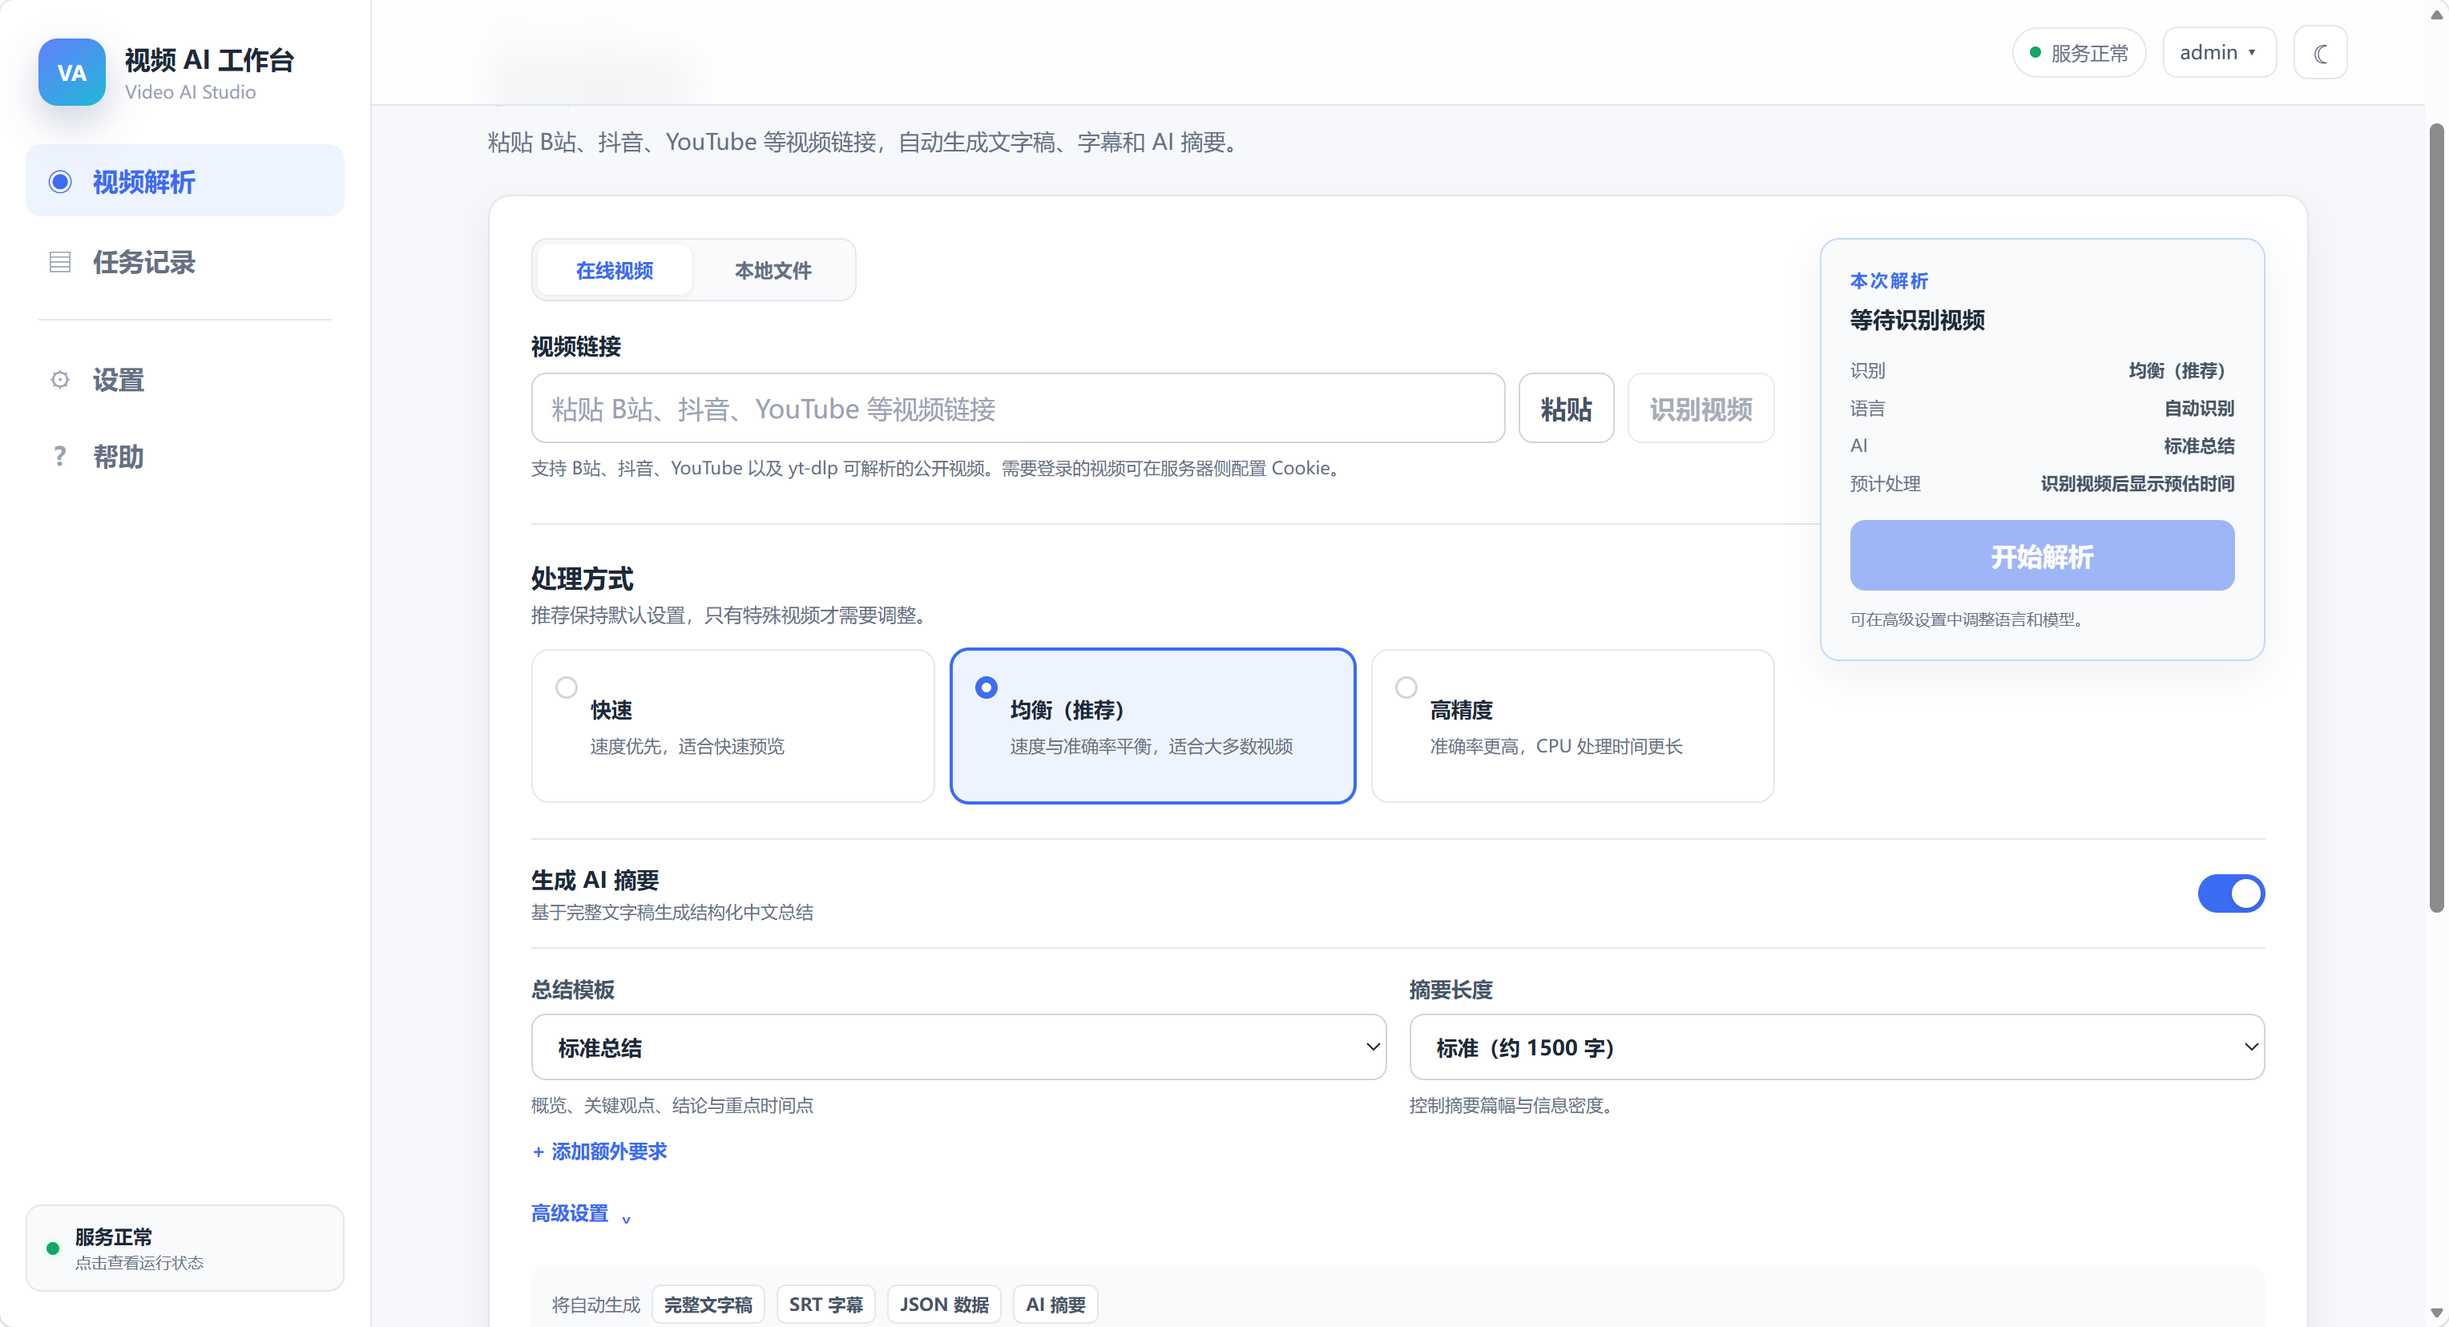
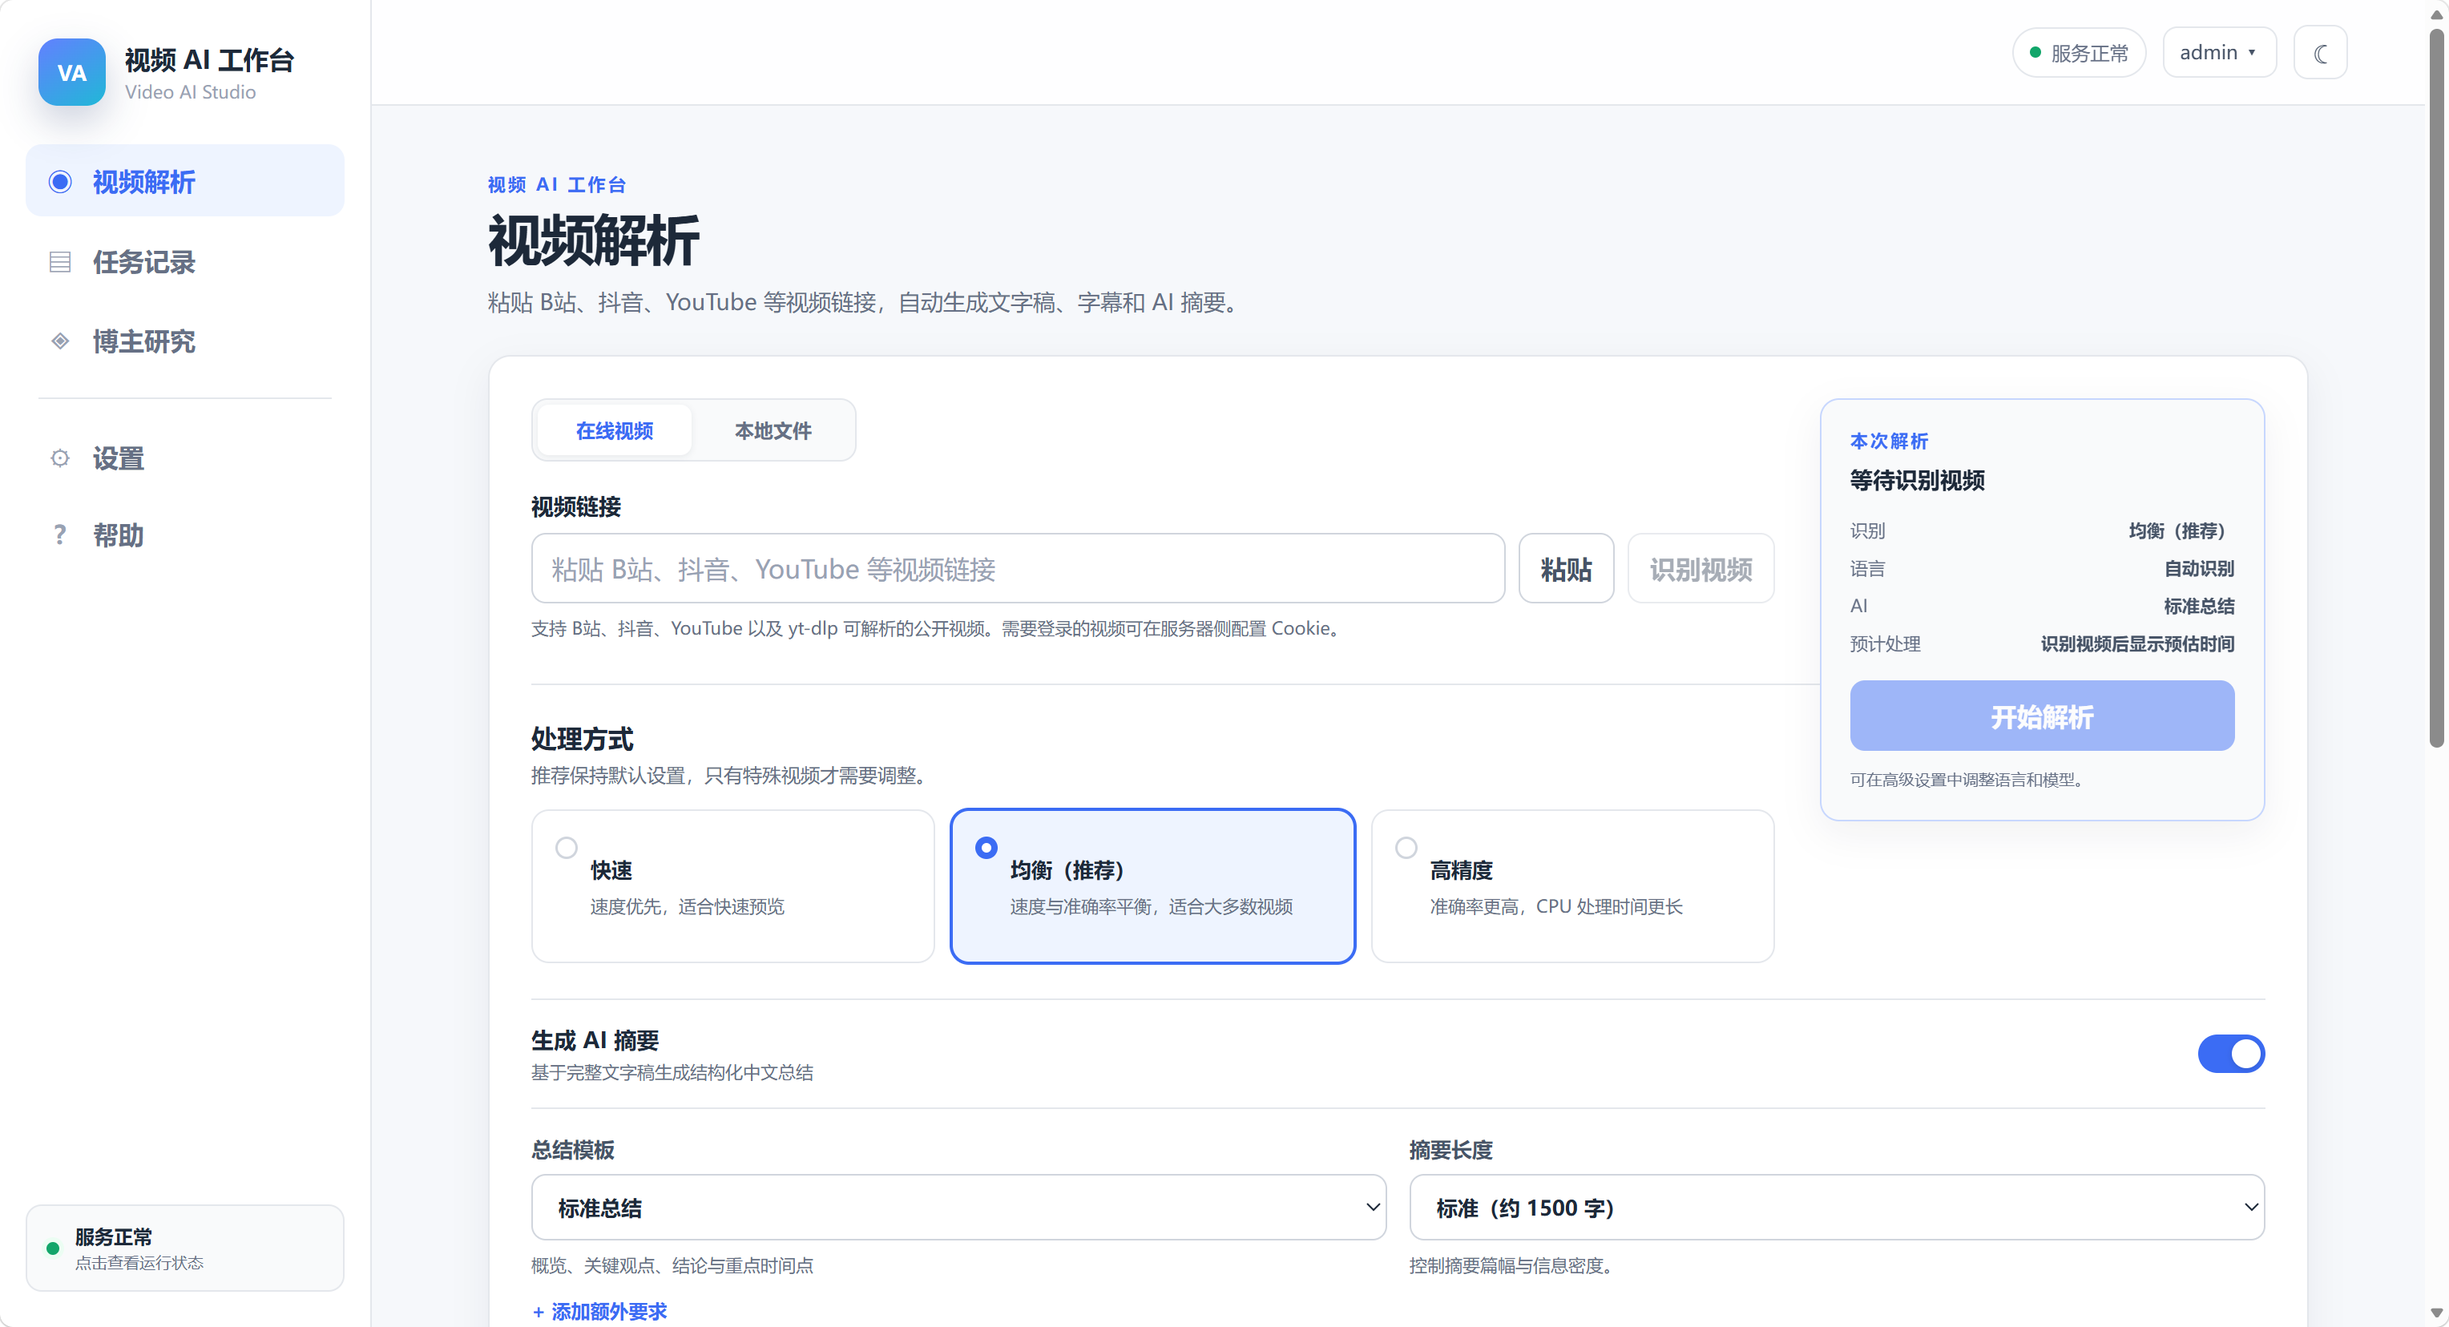
docs: refresh product overview and screenshot

diff --git a/README.md b/README.md
@@ -1,12 +1,16 @@
 # 视频 AI 工作台（Video AI Studio）
 
-一个可部署、可复用的中文视频内容解析产品。输入在线视频链接或上传本地媒体，即可获得带时间轴的文字稿、字幕和 AI 摘要。
+一个可私有部署的中文视频内容解析与创作者研究工作台。它既能把单条在线视频或本地媒体转成带时间轴的文字稿、字幕和 AI 摘要，也能批量研究抖音创作者的公开内容：从视频文本中提炼可追溯的观点、判断规则与思维框架，生成认知模型、可复用 Skill，并以历史文字稿作为检索证据回答新问题。
+
+> 仅处理你有权访问的公开内容，并遵守来源平台规则与适用法律。Creator Skill 是对公开内容的方法论归纳，不代表、也不会冒充创作者本人。
 
 <p align="center">
-  <img src="docs/images/video-ai-studio-workspace.png" alt="视频 AI 工作台的视频解析页面" width="1200">
+  <img src="docs/images/video-ai-studio-workspace.png" alt="视频 AI 工作台当前的视频解析页面" width="1200">
 </p>
 
-## 内容处理流程
+## 两类工作流
+
+### 1. 单条视频解析
 
 ```text
 在线视频 URL / 本地视频或音频
@@ -24,14 +28,44 @@
  Markdown / TXT / SRT / JSON
 ```
 
+### 2. 博主研究（Creator Intelligence）
+
+```text
+抖音主页 / 任意视频 / 分享短链
+          ↓
+持久化 Playwright 登录会话识别创作者
+          ↓
+同步公开作品，数据库去重
+          ↓
+受控批次：下载 → 转写 → Video Insight
+          ↓
+跨视频归纳：证据化 Cognitive Profile
+          ↓
+Creator Skill + pgvector 历史文本检索
+          ↓
+按该方法论分析新问题，并展示视频证据
+```
+
 ## 核心功能
 
-- 在线视频和本地视频、音频上传，支持在提交前识别视频标题、作者、封面、时长和平台。
-- 基于 faster-whisper 的本地语音识别，提供快速、均衡和高精度三档处理策略。
+### 视频解析
+
+- 在线视频与本地视频、音频上传；提交前可识别标题、作者、封面、时长和平台。
+- 基于 `faster-whisper` 的本地语音识别，提供快速、均衡、高精度三档策略。
 - 支持标准总结、详细笔记、课程笔记、会议纪要、访谈整理、知识点提取和自定义 AI 摘要。
-- 任务记录、实时进度、任务取消、全文检索和失败重试；文字稿完成后可单独重新生成摘要，无需重新下载或识别。
-- 导出 Markdown、TXT、SRT 和 JSON；即使 AI 摘要失败，已生成的文字稿和字幕仍可读取、下载。
-- 全中文界面，支持浅色和深色模式；API Key 加密保存，前端只展示掩码。
+- 任务记录、阶段进度、取消、全文检索、失败重试；文字稿完成后可单独重新生成摘要，无需重复下载和转写。
+- 导出 Markdown、TXT、SRT、JSON。ASR 文字稿会先落盘，即使 LLM 摘要失败也可继续查看、导出或重新总结。
+
+### 博主研究
+
+- 支持粘贴抖音标准主页、任意单条视频、`/user/self?modal_id=...`、`/jingxuan?modal_id=...` 与 `v.douyin.com` 分享短链；系统统一解析为创作者身份。
+- 在“设置 → 抖音连接”中扫码登录一次，登录态保存在 Docker 持久卷中的 Playwright Profile。后续可复用会话识别作者、采集主页公开作品，并将 Cookie 快照交给 `yt-dlp` 下载已发现的视频。
+- 博主研究按可选的 3 / 5 / 10 条批次执行；可设置自动继续、处理上限（10 / 50 / 全部）和失败率自动暂停阈值，避免一次性占满下载、ASR 与 LLM 资源。
+- 每条视频生成 `Video Insight`：主张、推理链、条件—行动判断规则、分析框架、表达模式及精确时间轴证据。
+- 跨视频生成证据化认知模型（Cognitive Profile），只保留反复出现且有来源支持的世界观、第一性原则、判断规则、框架、风险偏好与适用边界。
+- 自动生成可下载的 `SKILL.md` 和 `references/profile.json`；Skill 保留“如何思考”，不塞入全部视频原文。
+- 可为博主全部文字稿建立 `pgvector` 索引，再通过“Skill 与测试”界面以“Skill + 历史证据”的方式回答问题，结果会附带命中视频与时间点。
+- 主页同步受平台访问条件影响时，可在博主详情页批量导入视频链接作为兜底。
 
 ## 支持来源
 
@@ -40,20 +74,16 @@
 - B站
 - 抖音
 - YouTube
-- 以及 yt-dlp 可解析的其他公开视频来源
-
-需要登录的视频可通过服务器侧 Netscape Cookie 文件处理，Cookie 不进入源码。
+- 以及 `yt-dlp` 可解析的其他公开视频来源
 
 ### 本地文件
-
-支持常见格式：
 
 ```text
 视频：MP4 / MOV / MKV / WEBM / AVI / M4V
 音频：MP3 / WAV / M4A / AAC / FLAC / OGG / OPUS
 ```
 
-本地媒体上传到你的服务器处理。默认 `KEEP_SOURCE_MEDIA=false` 时，成功处理后会删除原始上传媒体和中间 WAV，仅保留最终结果。
+默认 `KEEP_SOURCE_MEDIA=false`。成功处理后会清理原始上传媒体和中间 WAV，仅保留最终结果；失败任务的临时工作目录也会自动清理。设置页会分别统计任务结果、临时文件、上传源文件、博主 Skill、RAG 索引、抖音登录资料和模型缓存，清理操作不会删除结果、Skill、RAG、模型或登录资料。
 
 ## 技术架构
 
@@ -62,30 +92,30 @@ React + Vite
      ↓
    Nginx
      ↓
-  FastAPI
-  ↙     ↘
-PostgreSQL Redis
-             ↓
-           Celery
-             ↓
-        Video Worker
-        ├─ yt-dlp
-        ├─ FFmpeg
-        ├─ faster-whisper
-        └─ OpenAI-compatible LLM
+  FastAPI ── PostgreSQL + pgvector
+     ↓              ↑
+Celery + Redis ─────┘
+     ↓
+Video / Creator Worker
+├─ yt-dlp              单条媒体下载
+├─ Playwright           抖音持久化会话、身份识别、主页作品采集
+├─ FFmpeg               音频标准化
+├─ faster-whisper       本地 ASR
+├─ OpenAI-compatible LLM 视频总结、Video Insight、认知模型
+└─ Embedding API        历史文字稿向量检索（当前索引为 1536 维）
 ```
 
-Linux 是主要生产部署环境；Windows 推荐使用 Docker Desktop + Linux Containers。
+`result.json` 是视频事实层的核心持久化格式，保存完整时间轴文字稿；`video_insights` 保存认知提取；`creator_analysis_runs` 保存博主认知模型；`creator_skill_versions` 保存版本化 Skill。这样可以在原始媒体清理后继续重新总结、重建检索索引或重新归纳方法论。
 
-## 部署
+## 快速开始
 
 ### 环境要求
 
-- Docker Engine 和 Docker Compose v2
-- 建议至少 4 GB 内存；CPU 使用 `small` 模型时建议更高配置
-- 足够的磁盘空间用于模型缓存、上传文件和任务结果
+- Docker Engine 与 Docker Compose v2
+- 建议至少 4 GB 内存；大量 CPU ASR 或长视频建议使用更高配置
+- 足够的磁盘空间用于模型缓存、上传媒体、任务结果与 Playwright 浏览器资料
 
-### 启动服务
+### 启动
 
 在项目根目录运行：
 
@@ -94,73 +124,66 @@ python3 scripts/init_env.py
 docker compose up -d --build
 ```
 
-`init_env.py` 会生成本地 `.env`，其中包括 `APP_SECRET_KEY`、`APP_ENCRYPTION_KEY`、`ADMIN_PASSWORD` 和 `POSTGRES_PASSWORD`，不会生成任何 LLM API Key。
-
-检查服务状态：
+首次构建后端镜像会安装 Chromium，耗时通常比普通镜像构建更长。启动后检查：
 
 ```bash
 docker compose ps
 docker compose logs -f worker
 ```
 
-浏览器访问：
+访问：
 
 ```text
-http://服务器IP:8080
+http://localhost:8080
 ```
 
-登录后前往“设置 → AI 模型”，选择服务商并填写自己的 API Key。预置 DeepSeek、智谱 GLM，也支持自定义 OpenAI-compatible 接口。
+登录后在“设置 → AI 模型”填写兼容 OpenAI API 的模型配置。可使用 DeepSeek、智谱 GLM 或其他兼容服务；要使用博主检索问答，还需填写 Embedding 模型。当前向量表固定为 1536 维，适配 `text-embedding-3-small` 一类模型；切换到其他维度前，需要调整迁移/索引并重建向量数据。
 
-Windows 可在 Docker Desktop（Linux Containers）中运行：
+Windows 可使用 Docker Desktop 的 Linux Containers：
 
 ```powershell
 py scripts\init_env.py
 docker compose up -d --build
 ```
 
-然后访问 `http://localhost:8080`。
+## 使用博主研究
+
+1. 在“设置 → 抖音连接”点击“连接抖音账号”，使用抖音 App 扫码；状态变为“已连接”后，Profile 会保存在 `/data/playwright/douyin` 对应的 `app_data` Docker 卷中。
+2. 打开“博主研究”，粘贴主页、视频或分享链接，点击“识别博主”，核对预览身份后选择“开始研究”。
+3. 为首次研究选择批次、处理上限和失败阈值。建议先以 3 条、关闭自动继续验证下载、ASR 与模型配置；确认无误后再开启自动继续或增加批次。
+4. 系统依次同步作品、转写、提取 Video Insight、构建认知模型并生成 Skill。每个阶段均可在详情页查看进度、暂停或继续。
+5. 打开“Skill 与测试”，下载 `SKILL.md`；填写 Embedding 模型后点击“建立 / 重建检索索引”，即可输入问题，以方法论和检索到的历史文字稿证据进行测试。
+
+浏览器会话会过期，也可能被平台要求人机验证。系统不会绕过验证；请在可信环境重新扫码。主页采集失败时，使用详情页“批量导入视频链接”继续单视频处理。
 
 ## Cookie、配置与输出
 
-需要登录的视频，请将 Netscape 格式 Cookie 放到：
+### `yt-dlp` Cookie 备用方式
+
+Playwright 持久化登录是博主发现与作品采集的主路线。对于需要登录的单条下载，或扫码暂不可用时，也可挂载 Netscape Cookie 文件：
 
 ```text
 secrets/yt-dlp.cookies.txt
 ```
 
-并在 `.env` 中配置：
+在 `.env` 中配置：
 
 ```text
 YTDLP_COOKIES_FILE=/run/secrets/yt-dlp.cookies.txt
+PLAYWRIGHT_PROFILE_DIR=/data/playwright/douyin
 ```
 
-`secrets/` 已被 `.gitignore` 排除；不要将 Cookie、LLM API Key 或本地 `.env` 提交到 Git。
+重建 backend 与 worker 后生效：
 
-### 抖音链接与 Cookie
+```bash
+docker compose up -d --build backend worker
+```
 
-支持抖音直链 `https://www.douyin.com/video/<视频ID>`，以及“精选”页分享链接
-`https://www.douyin.com/jingxuan?modal_id=<视频ID>`；后者会在服务端自动转换为直链。
+`secrets/`、Cookie、LLM API Key、本地 `.env`、模型和运行数据均被 `.gitignore` 排除，绝不要提交到 Git。Cookie 过期或出现“需要登录”时，请重新登录、更新 Cookie 或重连抖音账号。
 
-抖音通常要求新鲜的浏览器 Cookie，即使视频本身可以在浏览器中公开播放。请使用你有权使用的抖音账号按以下步骤配置：
+### 文件位置
 
-1. 在 Windows 浏览器中登录 `douyin.com`，打开目标视频一次，并保持该浏览器会话有效。
-2. 使用可信的 Cookie 导出工具，将 **douyin.com** 的 Cookie 导出为 Netscape `cookies.txt` 格式；不要把 Cookie 发给他人或上传到第三方网站。
-3. 将导出的文件保存为 `secrets/yt-dlp.cookies.txt`。文件首行通常是 `# Netscape HTTP Cookie File`。
-4. 在项目根目录的 `.env` 添加或修改：
-
-   ```text
-   YTDLP_COOKIES_FILE=/run/secrets/yt-dlp.cookies.txt
-   ```
-
-5. 重建后端和 Worker，使两者读取新的只读挂载文件：
-
-   ```bash
-   docker compose up -d --build backend worker
-   ```
-
-Cookie 会过期或因抖音风控失效；出现 “Fresh cookies … are needed” 或“需要登录”时，重新登录并导出新的文件后重启上述两个服务。请遵守抖音的服务条款、内容访问权限和适用法律。
-
-每个任务默认输出到：
+单视频任务输出：
 
 ```text
 /data/jobs/<job-id>/output/
@@ -170,14 +193,23 @@ Cookie 会过期或因抖音风控失效；出现 “Fresh cookies … are neede
 └── result.json
 ```
 
-`result.json` 保存完整的结构化时间轴，因此即使原始媒体已清理，也能重新生成 AI 摘要。
+博主 Skill 输出：
+
+```text
+/data/creators/<creator-id>/skills/v<version>/
+├── SKILL.md
+└── references/profile.json
+```
 
 ## 安全与生产建议
 
-- LLM API Key 通过 `APP_ENCRYPTION_KEY` 加密保存；请妥善备份该密钥，丢失后旧 Key 无法解密。
-- 视频 URL 会拦截私网、回环和保留 IP，降低 SSRF 风险；上传文件也受扩展名白名单和大小限制保护。
-- 公网部署请使用 Caddy、Nginx 或 Traefik 等反向代理配置 HTTPS，示例见 `deploy/Caddyfile.example`。
-- 默认资源限制包括 `DOWNLOAD_MAX_HEIGHT=1080`、`MAX_VIDEO_DURATION_SECONDS=14400` 和 `MAX_DOWNLOAD_BYTES=8589934592`，可在 `.env` 中按需调整。
+- LLM API Key 通过 `APP_ENCRYPTION_KEY` 加密保存，设置页只展示掩码；丢失该密钥后旧 Key 无法解密。
+- 管理员密码使用 Argon2 哈希，JWT 仅存浏览器 `sessionStorage`。
+- 视频 URL 会拦截私网、回环和保留 IP，降低 SSRF 风险；上传文件有格式与大小限制。
+- Playwright Profile、Cookie 和账号凭据不返回前端、不进入 Git；访问登录状态接口也需要登录。
+- Creator Skill 明确标注基于公开内容提炼，运行时回答区分事实、推断与不确定性，并引用历史证据。
+- 公网部署请在 8080 前配置 Caddy、Nginx 或 Traefik HTTPS 反向代理，示例见 `deploy/Caddyfile.example`。
+- 默认资源限制为 `DOWNLOAD_MAX_HEIGHT=1080`、`MAX_VIDEO_DURATION_SECONDS=14400`、`MAX_DOWNLOAD_BYTES=8589934592`，可在 `.env` 按需调整。
 
 ## 开源许可
 
